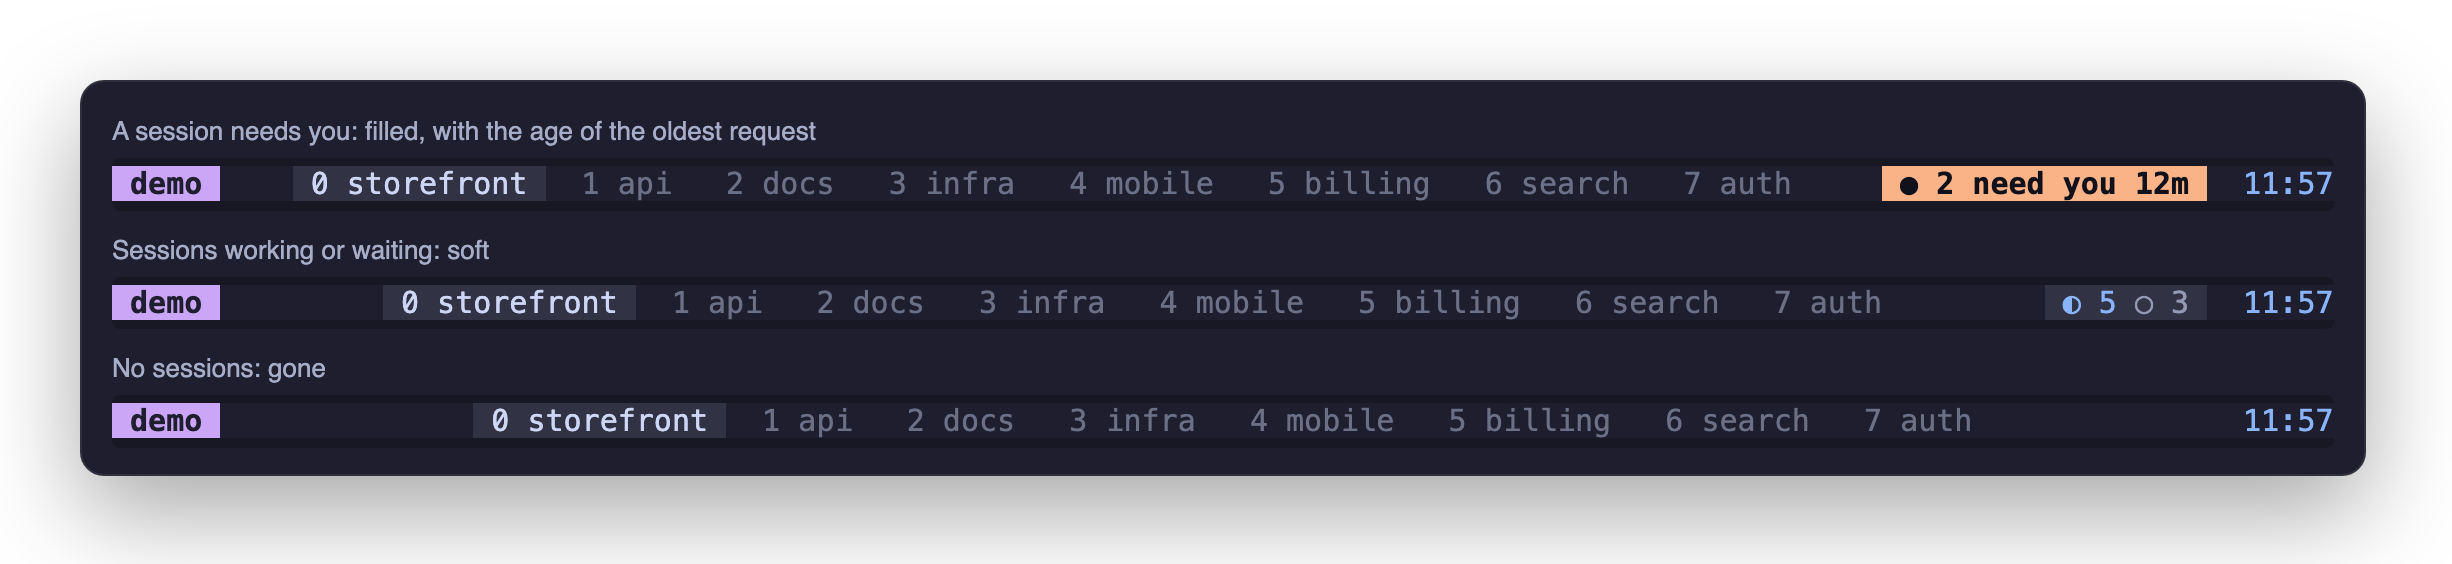
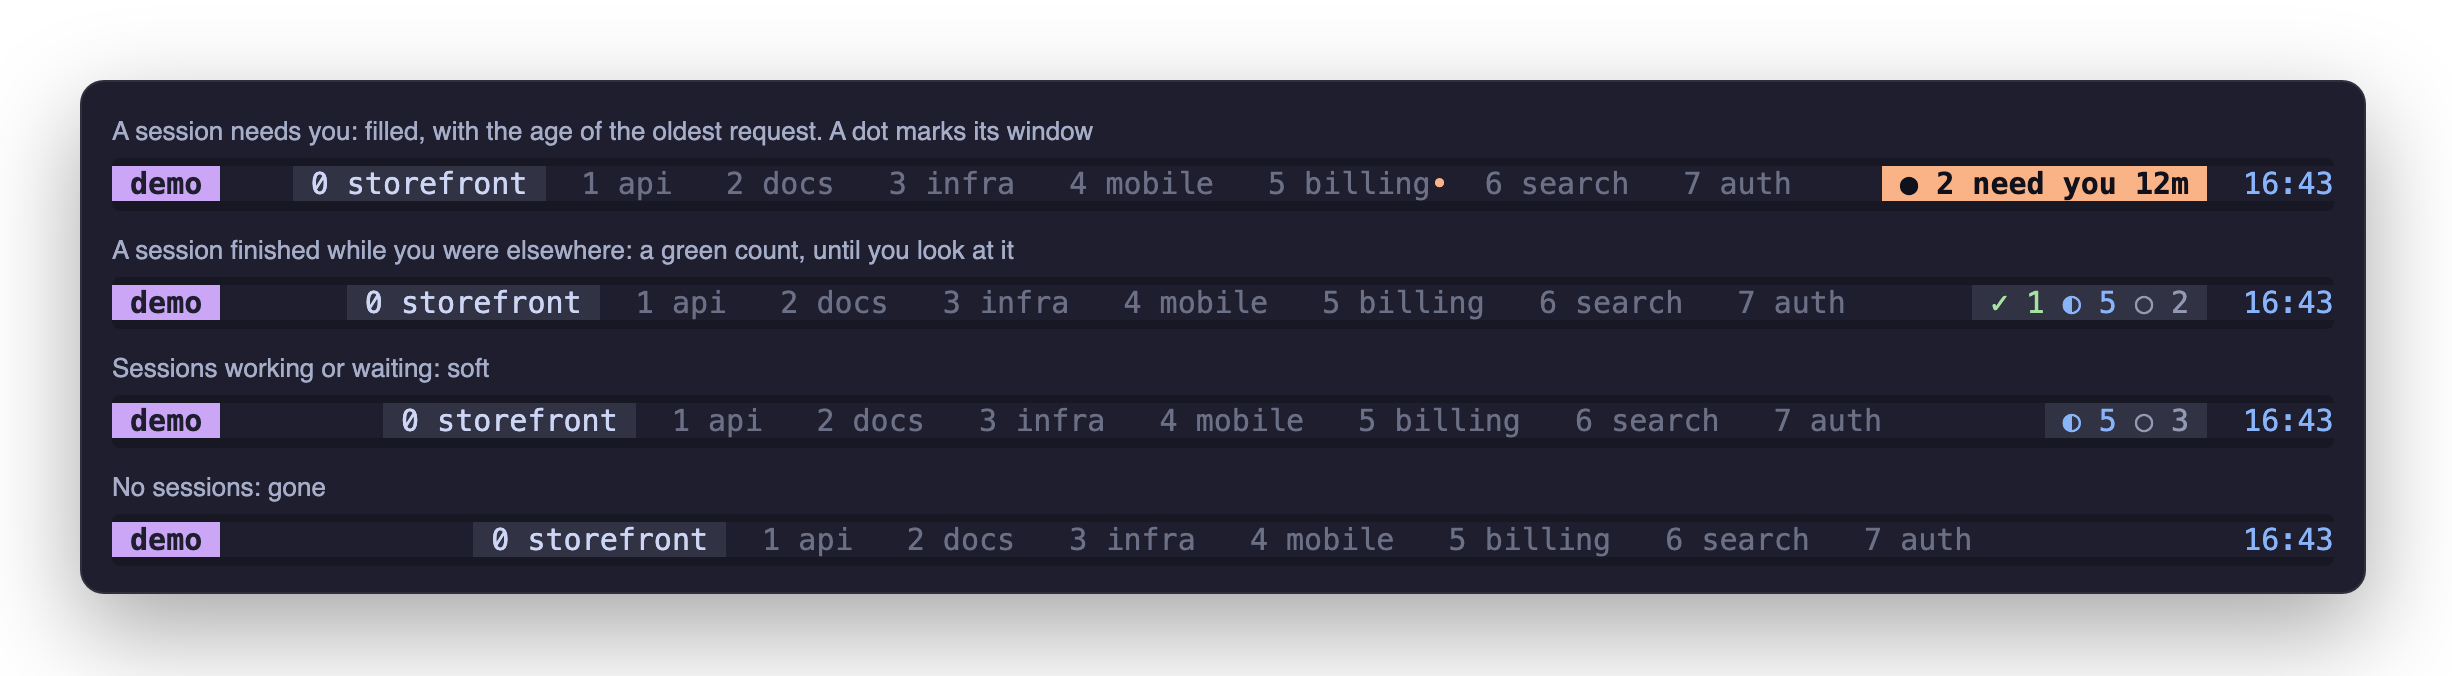
docs: picker and indicator images with done and the window dot, from the mock setup

diff --git a/README.md b/README.md
@@ -10,9 +10,9 @@ and its subagents. Enter takes you there.
 
 ![The picker: every session with its status, request, and subagents](docs/picker.png)
 
-The indicator has three states:
+The indicator has four states:
 
-![Indicator states: needs you, working or waiting, gone](docs/indicator.png)
+![Indicator states: needs you, done, working or waiting, gone](docs/indicator.png)
 
 A session that finishes while you are not looking is `✓ done`, in green,
 until you look at its pane. It then drops to `○ waiting`. One that
